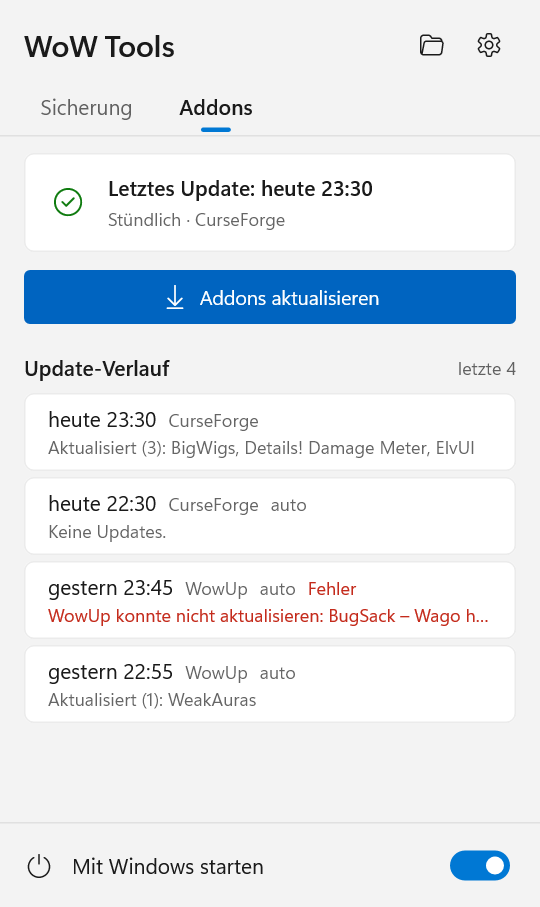
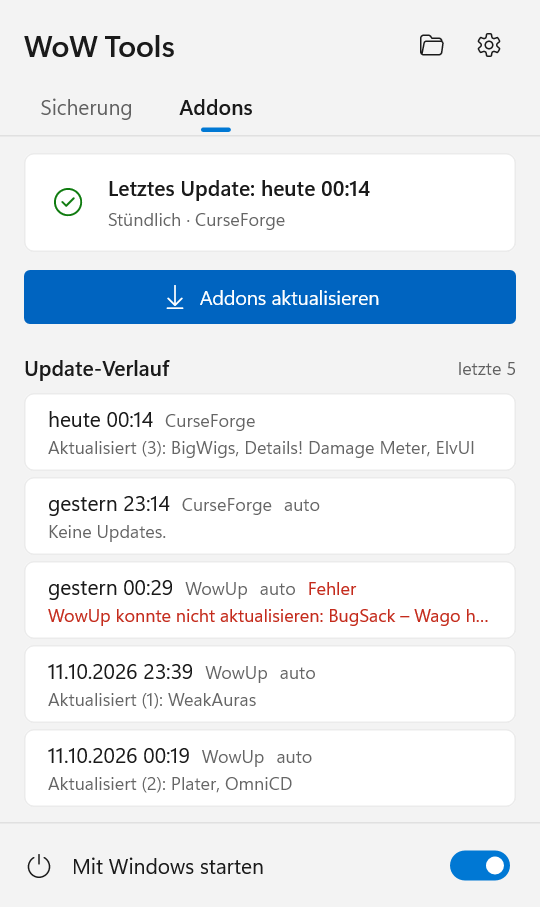
One time per addon update, five history rows, settings fit the tab
An update run was shown with two times: "last update" was taken when it
started (from the watch loop) and the history row when it ended, a minute or
more later with CurseForge. update_addons now takes the start time once and
uses it for both and for the schedule.

The panel lists the last five update runs.

The settings window was sized for the tallest tab with every optional card
shown, which left empty space under most tabs. It now fits the open tab and
refits when the tab changes or a change adds or removes cards; the top stays
in place, and past the screen's work area the cards scroll as before.

Claude-Session: https://claude.ai/code/session_018hPmJXegRDmrSuFtgoRsuH

diff --git a/src/settings.rs b/src/settings.rs
@@ -10,7 +10,9 @@ use std::ptr::{null, null_mut};
 use windows::Win32::Graphics::Direct2D::Common::D2D1_COLOR_F;
 use windows::Win32::Graphics::DirectWrite::IDWriteTextFormat;
 use windows_sys::Win32::Foundation::{HWND, LPARAM, LRESULT, RECT, WPARAM};
-use windows_sys::Win32::Graphics::Gdi::{BeginPaint, EndPaint, InvalidateRect, PAINTSTRUCT};
+use windows_sys::Win32::Graphics::Gdi::{
+    BeginPaint, EndPaint, GetMonitorInfoW, InvalidateRect, MONITOR_DEFAULTTONEAREST, MONITORINFO, MonitorFromWindow, PAINTSTRUCT,
+};
 use windows_sys::Win32::UI::HiDpi::GetDpiForWindow;
 use windows_sys::Win32::UI::Input::KeyboardAndMouse::{TME_LEAVE, TRACKMOUSEEVENT, TrackMouseEvent, VK_ESCAPE};
 use windows_sys::Win32::UI::WindowsAndMessaging::*;
@@ -148,9 +150,8 @@ impl Tab {
     }
 }
 
-/// The cards of a tab; the days and times only when their schedule is on (`full`: all of them,
-/// for sizing the window).
-fn rows(m: &Model, tab: Tab, full: bool) -> Vec<Row> {
+/// The cards of a tab; the days and times only when their schedule is on.
+fn rows(m: &Model, tab: Tab) -> Vec<Row> {
     let mut rows = Vec::new();
     match tab {
         Tab::General => rows.extend([
@@ -166,24 +167,24 @@ fn rows(m: &Model, tab: Tab, full: bool) -> Vec<Row> {
         ]),
         Tab::Backup => {
             rows.extend([Row::Section(tr!("settings.section_schedule")), Row::When]);
-            if full || m.cfg.backup_when == When::Schedule {
+            if m.cfg.backup_when == When::Schedule {
                 rows.extend([Row::Days, Row::Time]);
             }
             rows.extend([Row::Section(tr!("settings.section_storage")), Row::Keep, Row::Addons, Row::Game, Row::Backups]);
         }
         Tab::Addons => {
             rows.extend([Row::Section(tr!("settings.section_updates")), Row::UpdateApp]);
-            if full || m.chosen() == Some(AddonApp::Wago) {
+            if m.chosen() == Some(AddonApp::Wago) {
                 rows.extend([Row::WagoWeakAuras, Row::WagoUiPacks]);
             }
             rows.push(Row::UpdateGame);
             rows.push(Row::Updates);
-            if full || m.cfg.update_addons {
+            if m.cfg.update_addons {
                 rows.push(Row::UpdateWhen);
-                if full || m.cfg.update_when == UpdateWhen::Interval {
+                if m.cfg.update_when == UpdateWhen::Interval {
                     rows.push(Row::UpdateEvery);
                 }
-                if full || m.cfg.update_when == UpdateWhen::Schedule {
+                if m.cfg.update_when == UpdateWhen::Schedule {
                     rows.extend([Row::UpdateDays, Row::UpdateTime]);
                 }
             }
@@ -309,7 +310,7 @@ fn row_height(row: Row, m: &Model, f: &Formats) -> f32 {
 }
 
 fn layout(m: &Model, f: &Formats, tab: Tab) -> Vec<(R, Row)> {
-    place_rows(rows(m, tab, false), m, f)
+    place_rows(rows(m, tab), m, f)
 }
 
 fn place_rows(rows: Vec<Row>, m: &Model, f: &Formats) -> Vec<(R, Row)> {
@@ -335,14 +336,6 @@ fn bottom(rows: &[(R, Row)]) -> f32 {
 
 fn content_height(m: &Model, f: &Formats, tab: Tab) -> f32 {
     bottom(&layout(m, f, tab)) + FOOTER_H
-}
-
-/// Fits the tallest tab with every card shown, so switching tabs does not resize the window.
-fn window_height(m: &Model, f: &Formats) -> f32 {
-    Tab::ALL
-        .iter()
-        .map(|&tab| bottom(&place_rows(rows(m, tab, true), m, f)) + FOOTER_H)
-        .fold(0.0, f32::max)
 }
 
 enum Ctl {
@@ -1096,7 +1089,7 @@ fn open() -> gfx::Result<()> {
     let theme = gfx::theme();
     let title = tr!("settings.title", app = APP_NAME);
     let (model, fmt) = (Model::load(&path), formats()?);
-    let height = window_height(&model, &fmt);
+    let height = content_height(&model, &fmt, Tab::default());
     let (hwnd, scale) = gfx::create_window("WowToolsSettings", &title, Some(wndproc), (W, height), &theme);
     let icon = tray::app_icon();
     let window = Window {
@@ -1130,6 +1123,34 @@ pub fn refresh() {
     }
 }
 
+/// Fits the window to the cards of the open tab, so there is no empty space under them; the top
+/// stays in place. Taller than the screen's work area, it stops there and the cards scroll.
+fn fit(hwnd: HWND) {
+    let Some(want) = with_window(|w| (content_height(&w.model, &w.fmt, w.tab) * w.surface.scale).round() as i32) else {
+        return;
+    };
+    unsafe {
+        let (mut wr, mut cr): (RECT, RECT) = (zeroed(), zeroed());
+        GetWindowRect(hwnd, &mut wr);
+        GetClientRect(hwnd, &mut cr);
+        let frame = (wr.bottom - wr.top) - (cr.bottom - cr.top);
+        let mut mi: MONITORINFO = zeroed();
+        mi.cbSize = size_of::<MONITORINFO>() as u32;
+        GetMonitorInfoW(MonitorFromWindow(hwnd, MONITOR_DEFAULTTONEAREST), &mut mi);
+        let work = mi.rcWork;
+        let h = (want + frame).min(work.bottom - work.top);
+        if h == wr.bottom - wr.top {
+            return;
+        }
+        let y = wr.top.min(work.bottom - h).max(work.top);
+        SetWindowPos(hwnd, null_mut(), wr.left, y, wr.right - wr.left, h, SWP_NOZORDER | SWP_NOACTIVATE);
+    }
+    with_window(|w| {
+        w.surface.reset();
+        w.scroll = w.scroll.min(max_scroll(w));
+    });
+}
+
 fn client_height(hwnd: HWND, scale: f32) -> f32 {
     let mut rc: RECT = unsafe { zeroed() };
     unsafe { GetClientRect(hwnd, &mut rc) };
@@ -1153,6 +1174,7 @@ fn click(hwnd: HWND, hit: Hit) {
             w.scroll = 0.0;
             w.hover = None;
         });
+        fit(hwnd);
         unsafe { InvalidateRect(hwnd, null(), 0) };
         return;
     }
@@ -1167,6 +1189,8 @@ fn click(hwnd: HWND, hit: Hit) {
         let title: Vec<u16> = tr!("settings.title", app = APP_NAME).encode_utf16().chain([0]).collect();
         unsafe { SetWindowTextW(hwnd, title.as_ptr()) };
     }
+    // A change can add or remove cards (a schedule's days, the Wago switches).
+    fit(hwnd);
     unsafe { InvalidateRect(hwnd, null(), 0) };
     if let Some(action) = action {
         tray::act(action);
@@ -1289,7 +1313,9 @@ pub fn snapshot(path: &str, dark: bool, model: &Model, tab: Tab) -> gfx::Result<
         Tab::General => Some(Hit::Flavor(0)),
         _ => Some(Hit::Tab(Tab::General)),
     };
-    gfx::render_png(path, W, window_height(model, &fmt), 1.5, |p| draw(p, model, &theme, &fmt, tab, hover, 0.0))
+    gfx::render_png(path, W, content_height(model, &fmt, tab), 1.5, |p| {
+        draw(p, model, &theme, &fmt, tab, hover, 0.0)
+    })
 }
 
 #[cfg(test)]

diff --git a/src/app.rs b/src/app.rs
@@ -189,6 +189,8 @@ pub fn restore_point(ctx: &Ctx, flavor: &str, spec: &str, kind: Option<Kind>) ->
 /// Updates addons through the chosen addon manager app; first snapshots the addons of every selected
 /// flavor (when they changed since the last snapshot) so a bad update can be rolled back.
 pub fn update_addons(ctx: &Ctx, manual: bool) -> Result<String> {
+    // One time for the run everywhere (history, "last update", the schedule): when it started.
+    let started = chrono::Local::now().naive_local();
     // Refused before anything is recorded: nothing was tried.
     if ctx.cfg.update_skip_in_game
         && let Some(game) = crate::wow::running_game()
@@ -197,8 +199,11 @@ pub fn update_addons(ctx: &Ctx, manual: bool) -> Result<String> {
     }
     let app = crate::updater::chosen(ctx.cfg.update_app);
     let result = app.with_context(|| tr!("app.no_addon_app")).and_then(|app| run_update(ctx, app));
+    if result.is_ok() {
+        crate::updater::set_last_run(started);
+    }
     crate::updater::record(crate::updater::Entry {
-        time: chrono::Local::now().naive_local(),
+        time: started,
         app: app.map_or("—", |a| a.title()).to_string(),
         ok: result.is_ok(),
         text: match &result {

diff --git a/src/watch.rs b/src/watch.rs
@@ -133,10 +133,8 @@ pub fn run(config_path: &Path, explicit_config: Option<&Path>, interval_override
             emit(Event::Busy(Work::Addons));
             let result = app::update_addons(&ctx, false);
             match &result {
-                Ok(_) => {
-                    last_update = Some(now);
-                    updater::set_last_run(now);
-                }
+                // `update_addons` saved its start time.
+                Ok(_) => last_update = updater::last_run(),
                 Err(e) => {
                     log::error!("{}", tr!("watch.update_failed", error = format!("{e:#}")));
                     update_retry_at = Instant::now() + 3 * RETRY;
@@ -158,8 +156,7 @@ pub fn run(config_path: &Path, explicit_config: Option<&Path>, interval_override
                 emit(Event::Busy(Work::Addons));
                 let result = app::update_addons(&ctx, true);
                 if result.is_ok() {
-                    last_update = Some(Local::now().naive_local());
-                    updater::set_last_run(Local::now().naive_local());
+                    last_update = updater::last_run();
                 }
                 emit(Event::Addons { manual: true, result });
             }

diff --git a/src/main.rs b/src/main.rs
@@ -491,6 +491,7 @@ fn cmd_ui_snapshot(out: &std::path::Path, view: &str, dark: bool) -> Result<()> 
                 ),
             ),
             (1500, "WowUp", true, false, tr!("addons.updated", n = 1, names = "WeakAuras")),
+            (2900, "WowUp", true, false, tr!("addons.updated", n = 2, names = "Plater, OmniCD")),
         ]
         .map(|(min, app, ok, manual, text)| updater::Entry {
             time: now - Duration::minutes(min),

diff --git a/src/panel.rs b/src/panel.rs
@@ -71,7 +71,7 @@ impl Tab {
 }
 
 /// How many update runs the "Аддоны" tab lists.
-pub const HISTORY_ROWS: usize = 4;
+pub const HISTORY_ROWS: usize = 5;
 
 #[derive(Clone, Copy, PartialEq, Debug)]
 enum Hit {

diff --git a/README.fr.md b/README.fr.md
@@ -86,7 +86,7 @@ Le **clic gauche** ouvre le panneau (style Windows 11, suit le thème clair/somb
 - Onglet **Sauvegarde** : l'heure de la dernière sauvegarde et quand les sauvegardes ont lieu, **Sauvegarder**, et les
   derniers points de restauration de chaque version du jeu avec un bouton **Restaurer** (confirmation directement dans
   la ligne).
-- Onglet **Addons** : la date de la dernière mise à jour des addons, **Mettre à jour les addons**, et les quatre
+- Onglet **Addons** : la date de la dernière mise à jour des addons, **Mettre à jour les addons**, et les cinq
   dernières mises à jour — ce qui a été mis à jour ou ce qui a échoué (survolez une ligne pour voir le texte complet).
 - En haut : le dossier des sauvegardes et les paramètres ; en bas : **Lancer avec Windows**.
 

diff --git a/README.de.md b/README.de.md
@@ -84,7 +84,7 @@ Das Symbol zeigt den aktuellen Zustand:
 - Reiter **Sicherung**: wann die letzte Sicherung erstellt wurde und wann gesichert wird, **Jetzt sichern** und die
   neuesten Wiederherstellungspunkte jeder Spielversion mit der Schaltfläche **Zurück** (bestätigt wird direkt in der
   Zeile mit **Wiederherstellen**).
-- Reiter **Addons**: wann die Addons zuletzt aktualisiert wurden, **Addons aktualisieren** und die letzten vier
+- Reiter **Addons**: wann die Addons zuletzt aktualisiert wurden, **Addons aktualisieren** und die letzten fünf
   Update-Läufe – was aktualisiert wurde oder was schiefging (für den vollständigen Text den Mauszeiger auf die Zeile
   halten).
 - Oben: der Sicherungsordner und die Einstellungen; unten: **Mit Windows starten**.

diff --git a/README.es.md b/README.es.md
@@ -82,7 +82,7 @@ El icono muestra el estado actual:
 
 - Pestaña **Copias**: cuándo se hizo la última copia y cuándo se hacen las copias, **Hacer copia ahora** y los últimos
   puntos de restauración de cada versión del juego con un botón **Restaurar** (se confirma en la misma fila).
-- Pestaña **Accesorios**: cuándo se actualizaron los addons por última vez, **Actualizar accesorios** y las cuatro
+- Pestaña **Accesorios**: cuándo se actualizaron los addons por última vez, **Actualizar accesorios** y las cinco
   últimas actualizaciones: qué se actualizó o qué salió mal (pasa el ratón por una fila para ver el texto completo).
 - Arriba: la carpeta de copias y la configuración; abajo: **Iniciar con Windows**.
 

diff --git a/README.md b/README.md
@@ -78,7 +78,7 @@ The icon shows the current state:
 
 - **Backup** tab: when the last backup was taken and when backups run, **Back up now**, and the latest restore
   points of every game version with a **Restore** button (confirmed right in the row).
-- **Addons** tab: when addons were last updated, **Update addons**, and the last four update runs — what was updated
+- **Addons** tab: when addons were last updated, **Update addons**, and the last five update runs — what was updated
   or what went wrong (hover a row for the full text).
 - At the top: the backups folder and the settings; at the bottom: **Start with Windows**.
 
